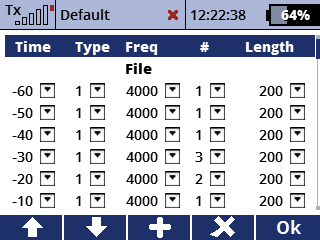
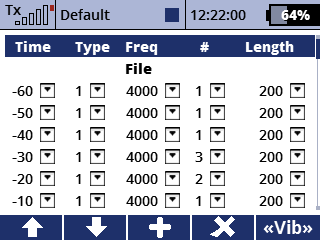
beepedit 1.2

Changed region(s): [[0.8125, 0.9042, 1.0, 0.9917], [0.5, 0.0292, 0.5625, 0.1167], [0.7188, 0.0292, 0.7812, 0.0875]]

diff --git a/repository/doc/BeepEdit-de.html b/repository/doc/BeepEdit-de.html
@@ -7,11 +7,12 @@
 <body>
   <h1>Beep Editor</h1>
   <p>
-    Komfortabler Editor für die Signalisierungsmuster 'Beep 1', 'Beep 2' und 'Sprache' für Timer und Stoppuhren.<br>
+    Komfortabler Editor für die Signalisierungsmuster 'Beep 1', 'Beep 2' und 'Sprache' für Timer und Stoppuhren.<br/>Außerdem können die Knüppelvibrationen geändert werden.<br>
   </p>
   <p>
 	<img src="img/beepEdit1.png" alt="main page"/>
 	<img src="img/beepEdit2.png" alt="beep elements list"/>
+	<img src="img/beepEdit3.png" alt="beep elements list"/>
   </p>
   <p>
     Beeps und Sounddateien können hinzugefügt, gelöscht und getauscht werden. Beeps haben eine einstellbare Frequenz, Dauer und Anzahl von Wiederholungen.<br>
@@ -23,6 +24,9 @@
     </li>
     <li>
       <p>Bearbeite das Signalisierungsmuster.</p>
+    </li>
+    <li>
+      <p>Drücke <b>F(5)</b>, um das Vibrationsmuster zu bearbeiten.</p>
     </li>
     <li>
       <p>Verlasse die Seite, um Änderungen abzuspeichern.</p>

diff --git a/repository/doc/BeepEdit-en.html b/repository/doc/BeepEdit-en.html
@@ -7,11 +7,12 @@
 <body>
   <h1>Beep Editor</h1>
   <p>
-    Comfortable editor for the timer signalization profiles 'Beep 1', 'Beep 2' and 'Voice'.<br>
+    Comfortable editor for the timer signalization profiles 'Beep 1', 'Beep 2' and 'Voice'.<br/>The stick vibrations can also be edited.<br>
   </p>
   <p>
 	<img src="img/beepEdit1.png" alt="main page"/>
 	<img src="img/beepEdit2.png" alt="beep elements list"/>
+	<img src="img/beepEdit3.png" alt="beep elements list"/>
   </p>
   <p>Beeps and audio files can be added, deleted and swapped. Beeps have a customizable frequency, duration and number of repititions.<br>
      Type 1: beep, type 2: audio file</p>
@@ -22,6 +23,9 @@
     </li>
     <li>
       <p>Edit, add, delete and swap the elements.</p>
+    </li>
+    <li>
+      <p>Press <b>F(5)</b> to edit the vibration profile.</p>
     </li>
     <li>
       <p>Close the form to apply changes.</p>
